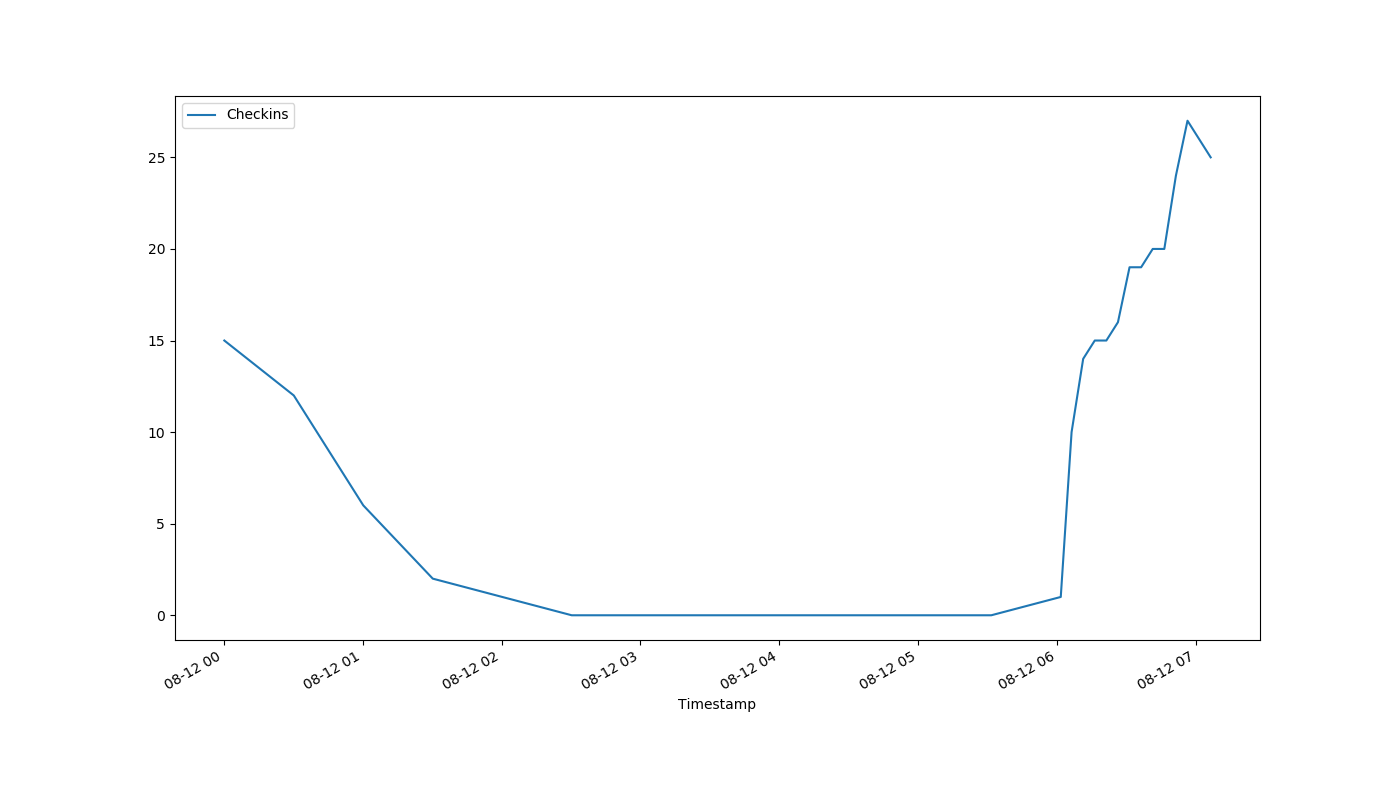
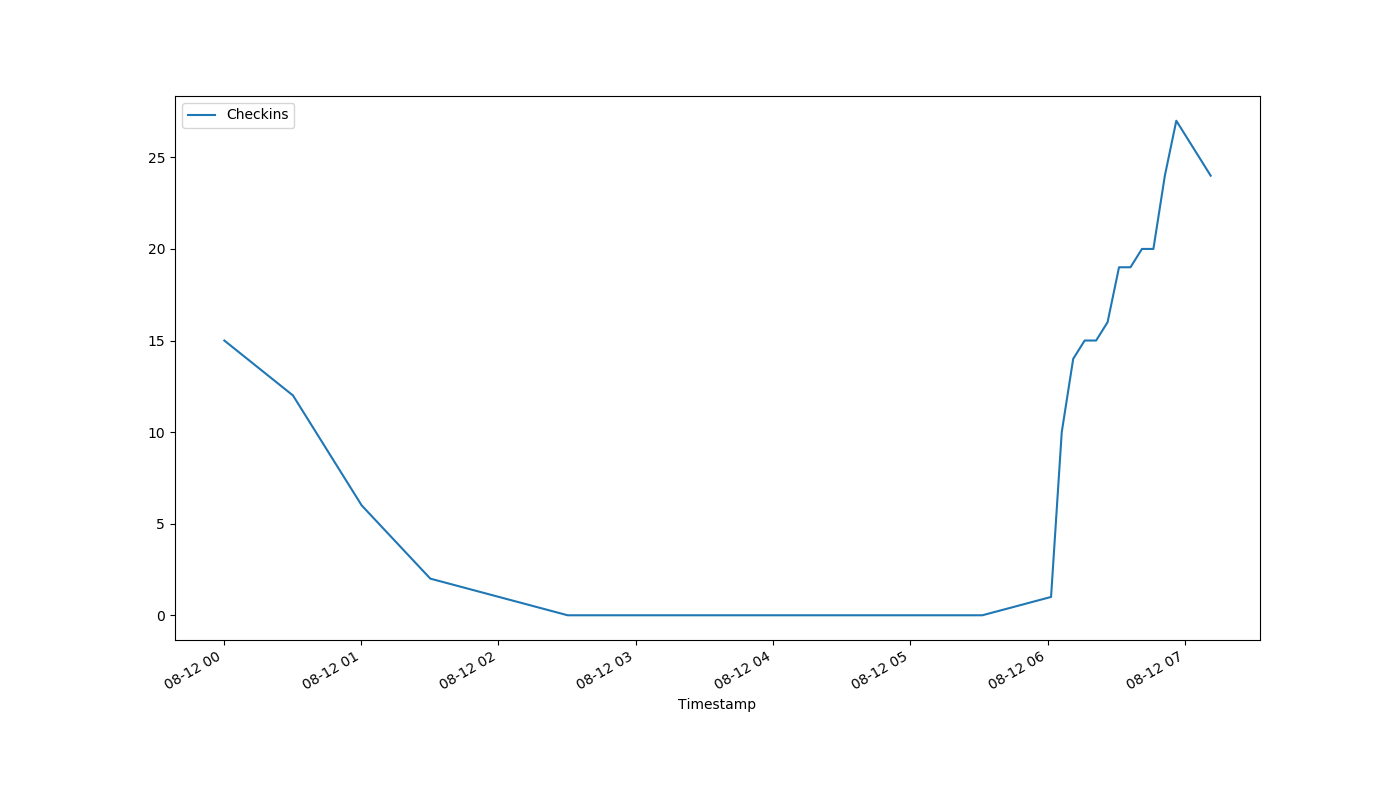
auto-Aug-12-07:13:56

diff --git a/index.html b/index.html
@@ -1,1 +1,1 @@
-<!DOCTYPE html><html><head><meta http-equiv="refresh" content="30"><link rel='stylesheet' href='holmcurrent.css'></head><body><p id='count'>25</p><div id='graph-wrap'><img id='graph' src='holmgraph-Aug-12.png'></div><p id='updated'>Last updated 07:07:13 / 07:06:14</p></body></html>
+<!DOCTYPE html><html><head><meta http-equiv="refresh" content="30"><link rel='stylesheet' href='holmcurrent.css'></head><body><p id='count'>24</p><div id='graph-wrap'><img id='graph' src='holmgraph-Aug-12.png'></div><p id='updated'>Last updated 07:12:13 / 07:11:15</p></body></html>
